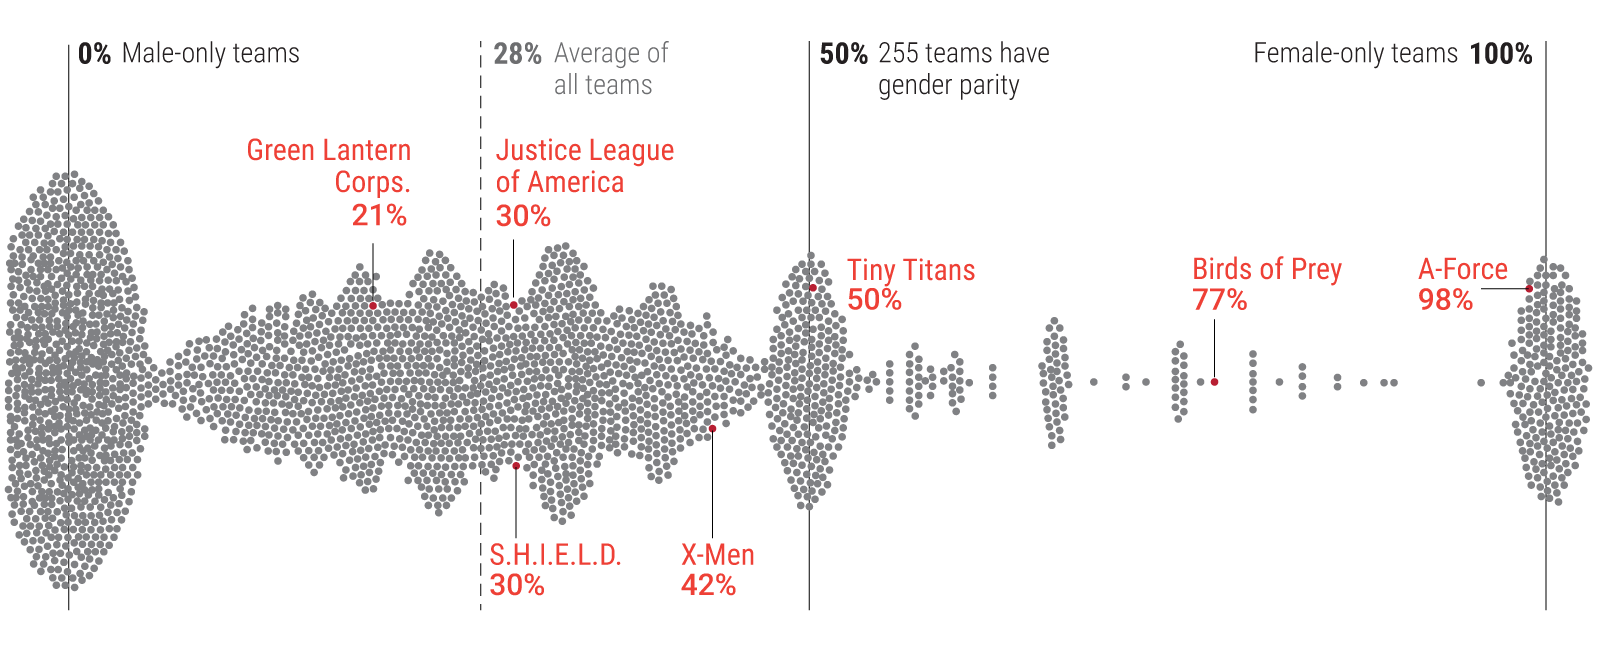
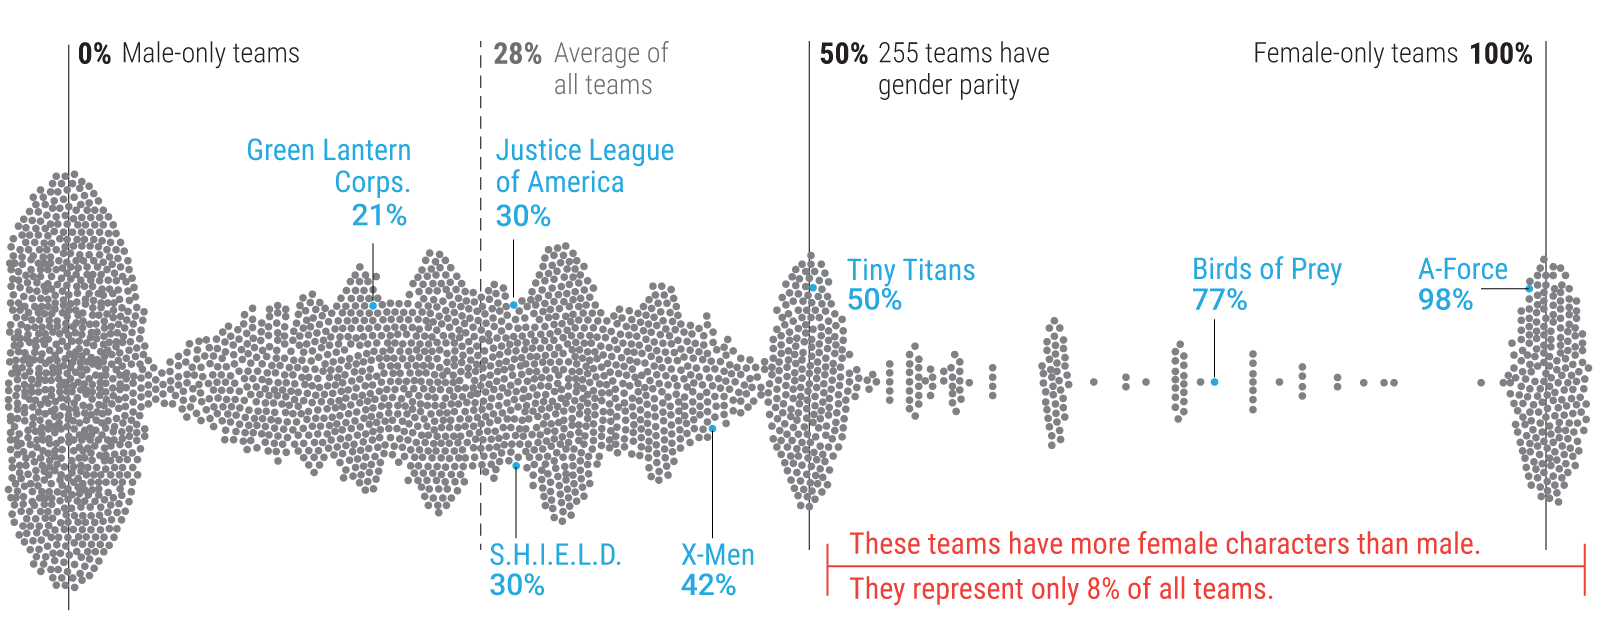
add swarm_mobile

diff --git a/index.html b/index.html
@@ -161,7 +161,7 @@
 <main id='content'>
 
 	<div class='intro' >
-		<h1 class='intro__hed tk-canela'>Marvel, DC and gender: A look at the representation of 34,476 characters</h1>
+		<h1 class='intro__hed tk-canela'>Marvel, DC and gender: Analyzing the representation of 34,476 characters</h1>
 		<p class='intro__byline tk-atlas'>By <a href='https://twitter.com/puddingviz' target='_blank'><strong>Amanda Shendruk</strong></a></p>
 		<p class='intro__dek tk-atlas medium'>Female characters appear in superhero comics less often than males — but when they <i>are</i> included, how are they depicted? </p>
 	</div>
@@ -182,7 +182,7 @@
 		<p>The recent theatrical release of Wonder Woman briefly catapulted the question of female superhero representation into the mainstream. For some, the character is a feminist icon — even <a href="https://www.amazon.com/Wonder-Woman-Gloria-Steinem/dp/051718687X" target="_blank">Gloria Steinem wrote about her</a> — and <a href="https://www.theguardian.com/lifeandstyle/2017/jun/05/why-wonder-woman-is-a-masterpiece-of-subversive-feminism" target="_blank">many fans</a> <a href="http://www.slate.com/blogs/xx_factor/2017/06/02/i_wish_wonder_woman_were_as_feminist_as_it_thinks_it_is.html" target="_blank">(though not all)</a> felt this wasn't just another superhero movie, but rather a pivotal moment in the portrayal of women in popular culture. <!-- By most measures, the movie was a success — it exceeded attendence records, it made a lot of <a href="http://www.vanityfair.com/hollywood/2017/06/wonder-woman-highest-worldwide-gross-female-director">money</a> and, for many, it was a . But, for some it was just a small advance in a  -->
 		<p>Why all the fuss? Well, the truth is that the comics industry has had a complicated relationship with female characters. They are often <a href="https://www.scientificamerican.com/article/the-problem-with-female-superheroes/" target="_blank">hyper-sexualized</a>, <a href="http://journal.transformativeworks.org/index.php/twc/article/view/460/384" target="_blank">unnecessarily brutalized</a>, <a href="http://www.newstatesman.com/culture/2013/08/i-hate-strong-female-characters" target="_blank">stereotyped</a>, and used as <a href="https://en.wikipedia.org/wiki/Smurfette_principle" target="_blank">tokens.</a> They're also rare. Only 26.7 percent of all DC and Marvel characters are female, and only <a href="https://www.amazon.com/Superwomen-Gender-Representation-Carolyn-Cocca/dp/1501316575" target="_blank">12 percent of mainstream superhero comics</a> have female protagonists.</p> 
 
-		<p>I decided to look beyond the gender ratio to see if we could learn more about how females are represented. Using characters from DC and Marvel in the <a href="https://comicvine.gamespot.com/api/" target="_blank"> ComicVine database</a>, I analyzed naming conventions, types of superpowers, and the composition of teams to see how male and female genders are portrayed.</p>
+		<p>I decided to look beyond the <a href="https://fivethirtyeight.com/features/women-in-comic-books/" target="blank">gender ratio</a> to see if we could learn more about how females are represented. Using characters from DC and Marvel in the <a href="https://comicvine.gamespot.com/api/" target="_blank"> ComicVine database</a>, I analyzed naming conventions, types of superpowers, and the composition of teams to see how male and female genders are portrayed.</p>
 
 	</div>
 
@@ -266,12 +266,13 @@
 	<!-- TEAMS CHART -->
 
 	<div class="chartHed">
-		<p class="chartTitle tk-atlas medium">Every team in DC and Marvel</p>
-		<p class="chartText tk-atlas small">Each dot represents one of over 2,500 teams in the DC and Marvel universes. If every team maintained the male/female ratio of the entire dataset, all would cluster at 27 percent female. The mean of all teams happens to be 28 percent female.</p>
+		<p class="chartTitle tk-atlas medium">Female percentage of every team</p>
+		<p class="chartText tk-atlas small">Each dot represents one of over 2,500 teams in the DC and Marvel universes. If every team maintained the male/female ratio of the entire dataset, all would cluster at 27 percent female. The average (mean) of all teams happens to be 28 percent female.</p>
 	</div>
 
 	<div class="graphic">
-		<img src="images/swarm.png" id="swarm">
+		<img src="images/swarm.png" id="swarm" class="desktop">
+		<img src="images/swarm_mobile.png" id="swarm" class="mobile">
 	</div>
 
 
@@ -310,7 +311,7 @@
 	</div>
 
 	<hr class="note tk-atlas small">
-	<p class="note tk-atlas small">DATA NOTES: Percentages are determined only from characters with gendered names. (ie. 13 percent of women with gendered names have 'girl' in their name). In DC and Marvel, 12 percent of all male characters have gendered names, and 8.7 percent of female characters have gendered names.<br><br> When I say 'diminutive names' these are the ones considered. Female: girl, daughter, miss, princess, lass, damsel, mademoiselle, chick, doll, gal. Male: boy, son, prince, lad, bro, junior. There are good arguments for both keeping and removing many of these terms — but the point remains: Even if we only consider 'girl' and 'boy' there's a significant difference: 13 percent for females, 5 percent for males.<br><br>In some cases a character with a gendered name will be listed in the Comic Vine database under their secret identity. For example, you will find no Ms. Marvel or Batgirl in the chart above. They are listed in the data as Carol Danvers (and Kahala Khan and others) and Barbara Gordon.</p>
+	<p class="note tk-atlas small">DATA NOTES: Percentages are determined only from characters with gendered names. (ie. 13 percent of women with gendered names have 'girl' in their name). In DC and Marvel, 12 percent of all male characters have gendered names, and 8.7 percent of female characters have gendered names.<br><br> When I say 'diminutive names' these are the ones considered. Female: girl, daughter, miss, princess, lass, damsel, mademoiselle, chick, doll, gal. Male: boy, son, prince, lad, bro, junior. There are good arguments for both keeping and removing many of these terms — but the point remains: Even if we only consider 'girl' and 'boy' there's a significant difference: 13 percent for females, 5 percent for males.<br><br>In some cases a character with a gendered name will be listed in the Comic Vine database under their secret identity. For example, you will find no Ms. Marvel or Batgirl in the chart above. They are listed in the data as Carol Danvers (and Kamala Khan, etc.) and Barbara Gordon.</p>
 
 	<div class="paddedBody small" id="sidebar_text_names">
 		<p>If we compare the use of diminutive names for male and female characters, we see that 33 percent of female characters and 16 percent of male characters fit in the category. Females are almost twice as likely to be given a name that may make her seem weak, less dangerous, less aggressive and not on equal footing with male characters.
@@ -329,7 +330,7 @@
 		<p><a href="https://www.oldwestbury.edu/people/coccac" target="_blank">Carolyn Cocca</a>, academic and author of the Eisner-nominated book <a href="https://www.amazon.com/Superwomen-Gender-Representation-Carolyn-Cocca/dp/1501316575" target="_blank">"Superwomen: Gender, Power, and Representation"</a>, expresses clearly why this is such an important concern. She writes: "If the constantly repeated story is that women and girls are not leaders, are not working in professional settings, are not agents of their own lives but merely adjuncts to others, and are sometimes not even present at all, it can reinforce or foster societal undervaluing of women and girls... As there are fewer female characters to begin with, each is overburdened with representing women as a group."</p>
 
 
-		<p>To be fair, this problem does not affect comics alone: media in general — including<a href="https://www.theguardian.com/books/2011/may/06/gender-imbalance-children-s-literature" target="_blank"> children's books</a> and <a href="http://theconversation.com/sexist-screen-representations-of-women-start-in-the-script-55022" target="_blank">scripts</a> — have a history of poor female representation and gender imbalance. The good news is that things may be changing. Both DC and Marvel have slowly begun to <a href="https://fivethirtyeight.com/features/women-in-comic-books/#fn-2" target="_blank">increase the number of female characters</a> in their output. Our analysis didn't consider time-series data (we didn't have it), and characters change over time — Wonder Woman herself has been a feminist activist, a house-wife, a sexualized pin-up, and a kick-ass hero in her eighty years. However, while some features may be altered, established and traditional characters tend to maintain their names and powers. They continue to carry the representative baggage of their past.</p>
+		<p>To be fair, this problem does not affect comics alone: media in general — including<a href="https://www.theguardian.com/books/2011/may/06/gender-imbalance-children-s-literature" target="_blank"> children's literature</a>, <a href="https://link.springer.com/article/10.1007/BF01544217" target="blank">cartoons</a>, <a href="http://onlinelibrary.wiley.com/doi/10.1111/j.1083-6101.2006.00301.x/full" target="blank">computer games</a> and even <a href="https://link.springer.com/article/10.1007/s11199-009-9703-8" target="_blank">coloring books</a> — have a history of poor female representation and gender imbalance. The good news is that things may be changing. Both DC and Marvel have slowly begun to <a href="https://fivethirtyeight.com/features/women-in-comic-books/#fn-2" target="_blank">increase the number of female characters</a> in their output. Our analysis didn't consider time-series data (we didn't have it), and characters change over time — Wonder Woman herself has been a feminist activist, a house-wife, a sexualized pin-up, and a kick-ass hero in her eighty years. However, while some features may be altered, established and traditional characters tend to maintain their names and powers. They continue to carry the representative baggage of their past.</p>
 	</div>
 
 	<div id="introGifs">
@@ -341,7 +342,7 @@
 
 	<p class="note tk-atlas small">Using the <a href="https://comicvine.gamespot.com/api/" target="_blank">ComicVine database</a>, which is fan-edited, information was downloaded for all 34,476 characters in the Marvel and DC universes. The choice of the 'big two' was made to cover the greatest breadth and history of characters; these companies have both been around since the 1930's and together they are responsible for approximately 70 percent of the <a href="http://www.diamondcomics.com/Home/1/1/3/237?articleID=100122" target="_blank">retail market</a> (depending on the month). Data were gathered at the end of April, 2017.</p>
 
-	<p class="note tk-atlas small"> This piece is unfortunately only focused on male and female gender. In the database there are designations for 'female', 'male' and 'other'. The decision was made to remove characters that appeared in the 'other' category. I had hoped this data would provide some insight into non-binary or gender fluid characters in the Marvel and DC universes. Once I took a closer look, however, it was clear that the category is not often used in a gender-inclusive way. Instead, it is mostly used as a way to label non-human characters like robots, auras and spirits. </p>
+	<p class="note tk-atlas small"> This piece is unfortunately only focused on male and female gender. In the database there are designations for 'female', 'male' and 'other'. The decision was made to remove characters that appeared in the 'other' category. I had hoped this data would provide some insight into non-binary or gender fluid characters in the Marvel and DC universes. Once I took a closer look, however, it was clear that the category is not often used in a gender-inclusive way. Instead, it is mostly used as a way to label non-human characters like robots, auras and spirits. <a href="http://www.open.edu/openlearn/history-the-arts/culture/media-studies/superqueeroes-gender-and-superheroes" target="blank">Here's a brief</a>, interesting read about battling this binary model in superhero comics.</p>
 	<p class="note tk-atlas small">Because I gathered every single character from both publishers, there are occasionally duplicates of characters. There’s a good argument for removing them: They over-weight some of the big characters, because it’s usually only the more common, popular characters that are replaced, or reborn, etc. However, there’s a good argument for keeping them as well. They can be considered different characters (Batman-X is not the same as Batman, for example), and as such, they have distinct genders. Removing duplicates would mean missing out if the character changes gender. For example: There are at least six iterations of Robin, but only four of them are male.</p>
 
 	<p class="note tk-atlas small">Thank you to <a href="https://tnshendruk.com/" target="_blank"> Tyler Shendruk</a>, who provided invaluable assitance during the data analysis stage, and to <a href="https://www.artstation.com/artist/trickynicky" target="blank">Nicole Derksen</a>, who created the illustrations and gifs used in this article.</p>
@@ -356,6 +357,7 @@
 	<script src='genNames_split.js'></script>
 	<script src='teams_anno.js'></script>
 	<script src='sidebar.js'></script>
+	
 
 
 

diff --git a/bundle.css b/bundle.css
@@ -524,7 +524,6 @@ th {
 }
 
 
-
 #stick {
   position:fixed;
   top:10%;
@@ -666,19 +665,26 @@ th {
 
 
 
-
-
-@media screen and (max-width: 410px) {
-  #swarm {
-    content:url("images/swarm_mobile.jpg");
+@media only screen and (max-width: 700px) {
+  .desktop {
+    display:none;
   }
+  .mobile {
+    display:block;
+  }
+
 }
 
-@media screen and (min-width: 410px) {
-  #swarm {
-    content:url("images/swarm.jpg");
+@media only screen and (min-width: 700px) {
+  .desktop {
+    display:block;
   }
+  .mobile {
+    display:none;
+  }
+
 }
+
 
 
 

diff --git a/image.js b/image.js
@@ -1,0 +1,9 @@
+// $(document).ready(function(){
+//     var img_w = window.innerWidth;
+//     if(img_w <= 780){
+//       $(".picture").html("<img id='swarm' src='images/swarm_mobile.jpg'/>")
+//     }
+//     else if(img_w>780){
+//       $(".picture").html("<img id='swarm' src='images/swarm.png'/>")
+//     }
+// });
